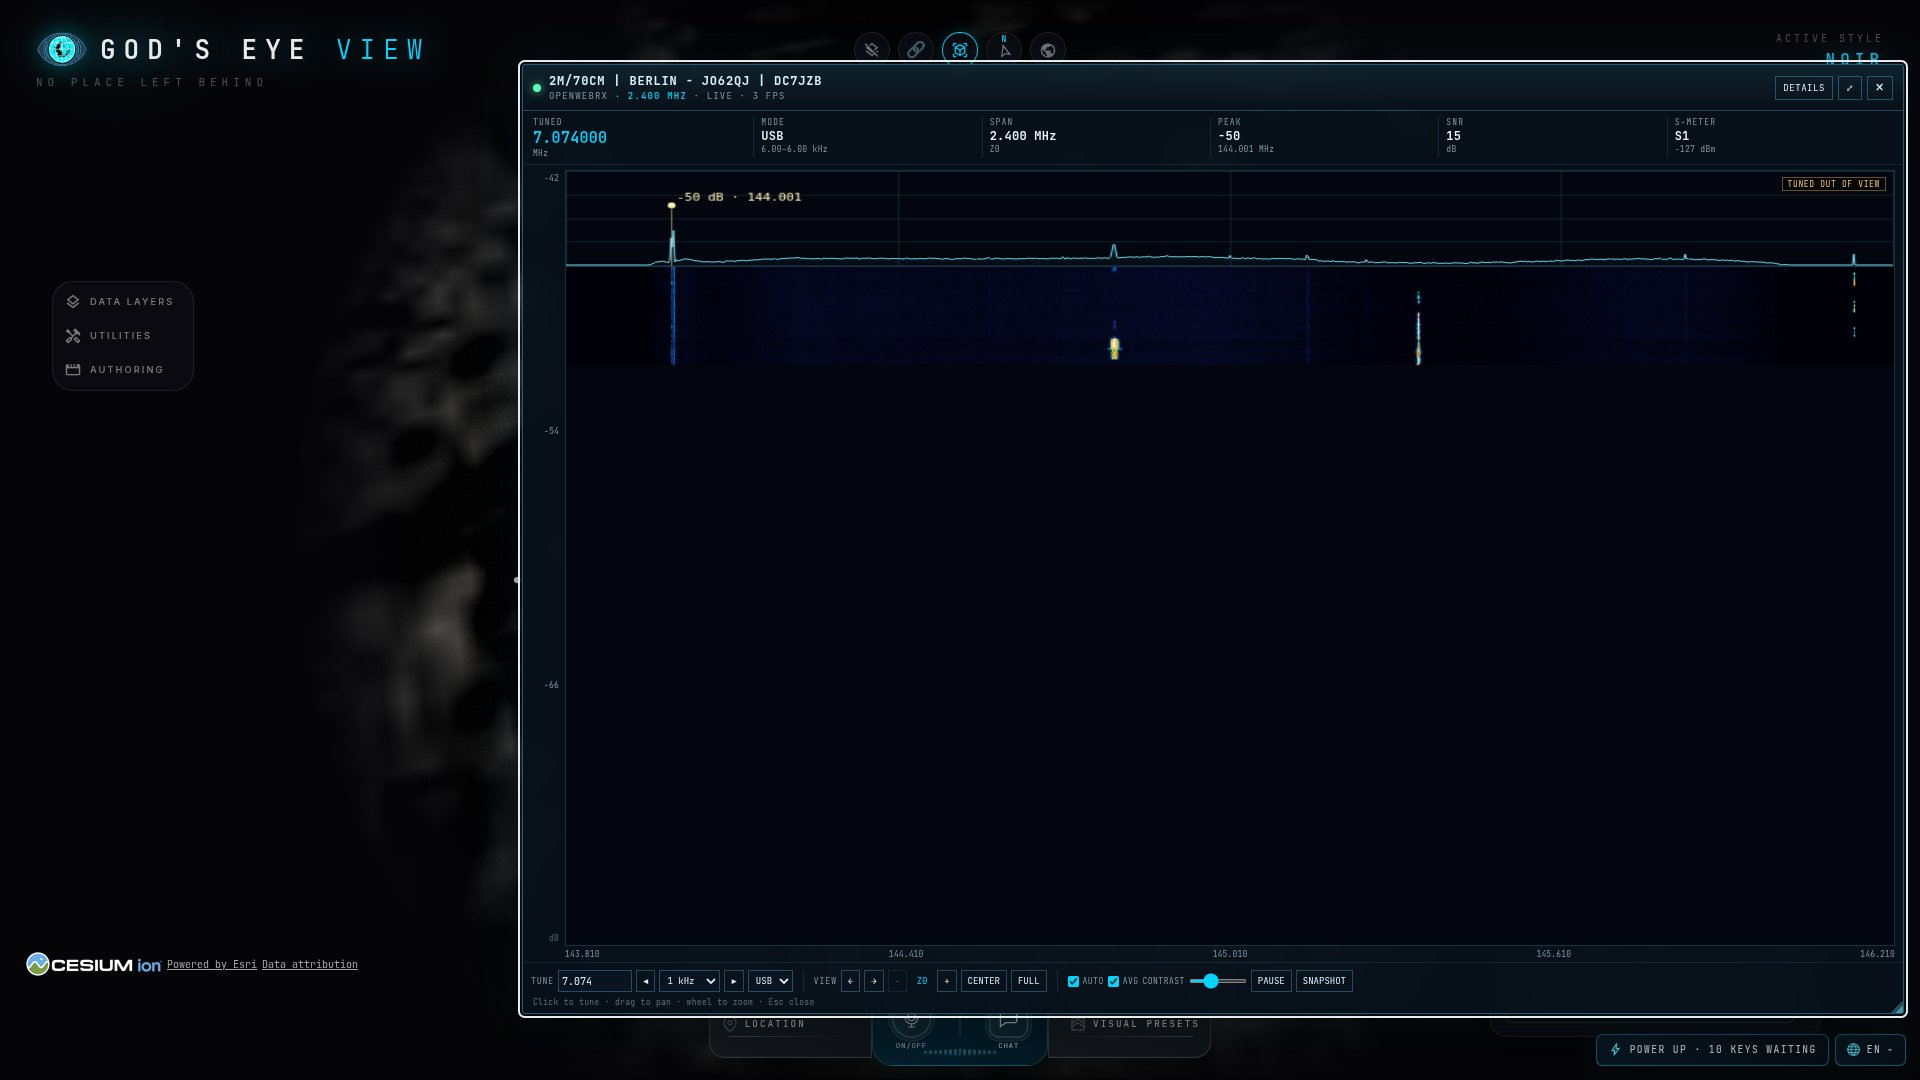
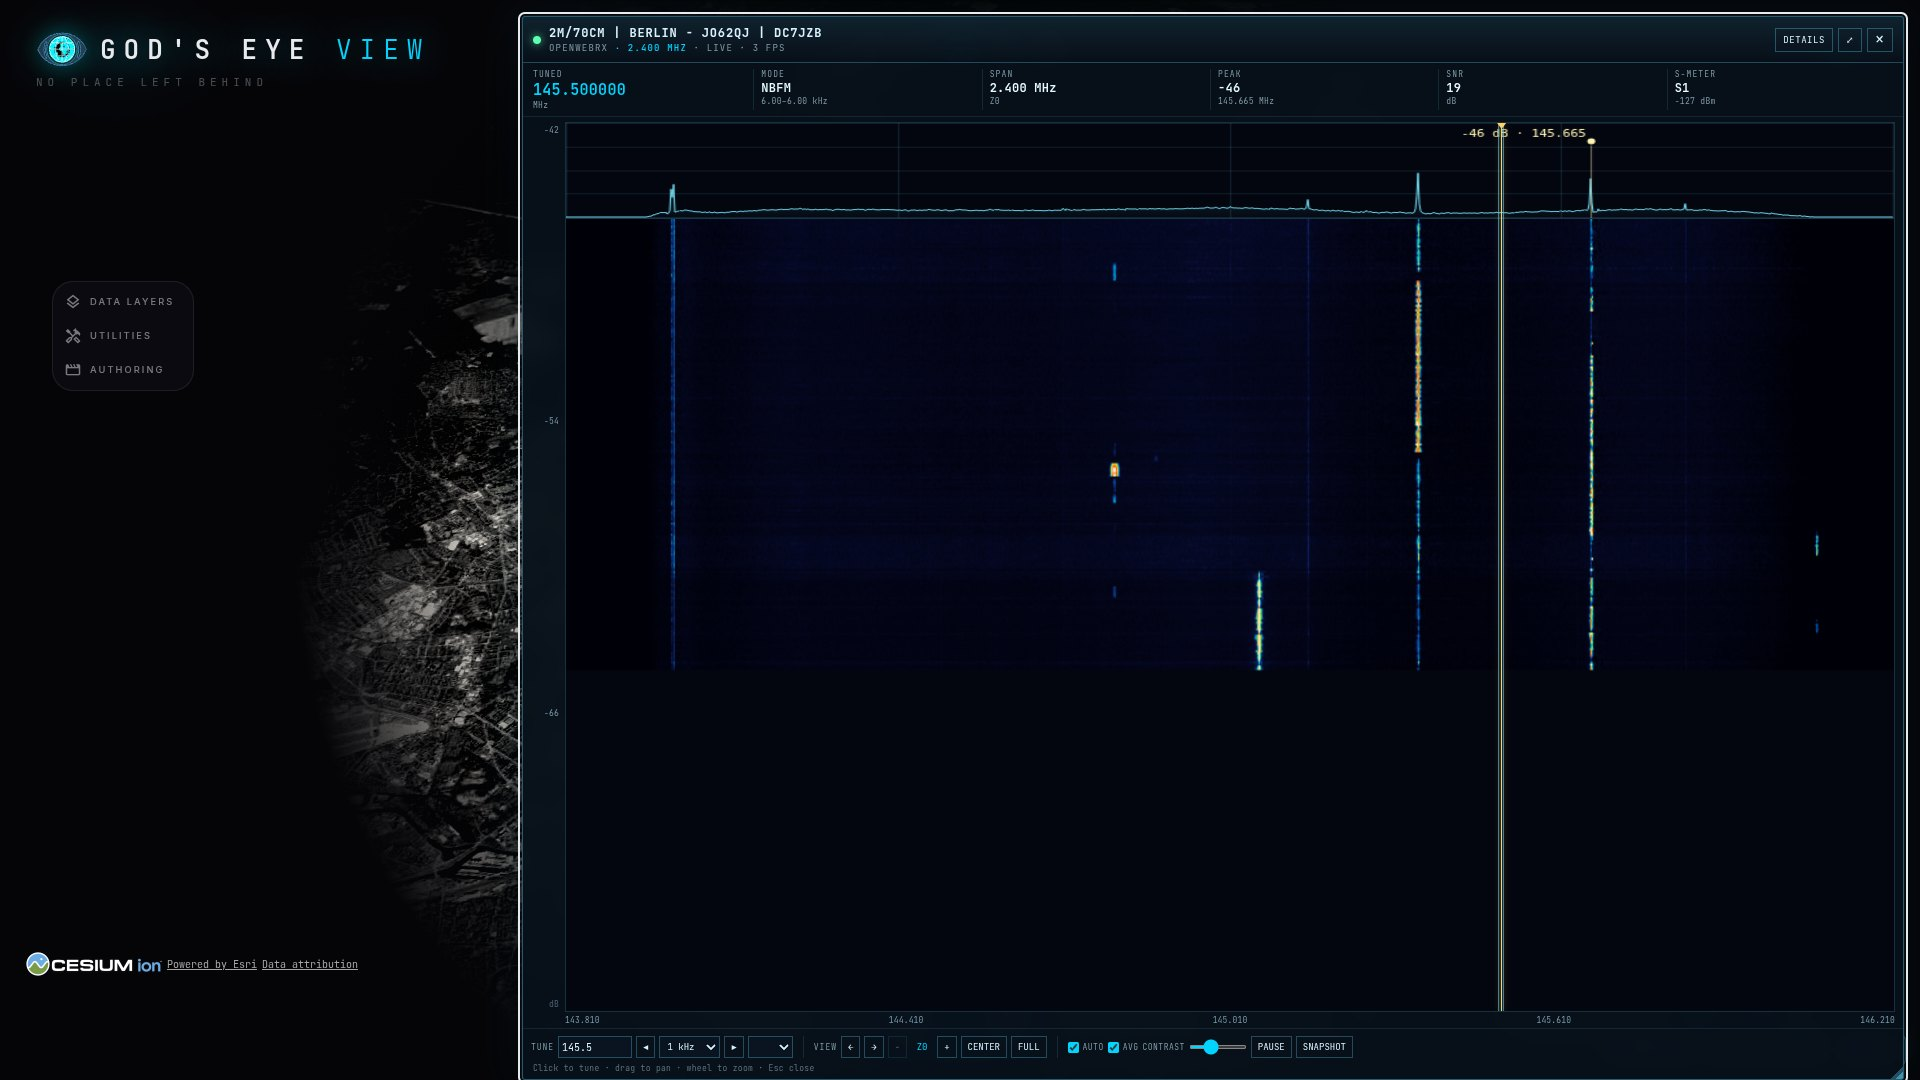
docs: reshoot Public SDR radio + live waterfall screenshots
Radio: Baunatal KiwiSDR at 14.074 MHz USB with full unclipped PUBLIC
SDR card and sharp regional tiles. Waterfall: Berlin OpenWebRX live at
145.500 MHz NBFM with in-band spectrum history.

diff --git a/README.md b/README.md
@@ -59,13 +59,13 @@ Turn on the public radio map and you can listen to live receivers right where th
 
 A pin click is the listen gesture: it selects the receiver in the Radio panel's PUBLIC SDR card, starts audio when the platform can play natively, and opens the floating spectrum/waterfall while the globe stays usable behind it. One stream at a time. Only <code>http://</code> KiwiSDR and OpenWebRX play inside the pane; other platforms get <b>OPEN ↗</b> to the operator's page (never framed).
 
-<img src="docs/images/eoh-sdr-waterfall-berlin.jpg" alt="Floating SDR waterfall over God's Eye View showing a live OpenWebRX stream from Berlin JO62QJ with spectrum, waterfall, SNR and S-meter." width="100%">
+<img src="docs/images/eoh-sdr-waterfall-berlin.jpg" alt="Floating SDR waterfall over God's Eye View showing a live OpenWebRX stream from Berlin JO62QJ tuned to 145.500 MHz NBFM, with spectrum, waterfall history, SNR and S-meter." width="100%">
 
-<sub>Live floating waterfall: Berlin OpenWebRX (<b>2m/70cm · JO62QJ · DC7JZB</b>), spectrum + waterfall, SNR and S-meter — RF right on the globe, no separate tuner window.</sub>
+<sub>Live floating waterfall: Berlin OpenWebRX (<b>2m/70cm · JO62QJ · DC7JZB</b>) at <b>145.500 MHz NBFM</b> — spectrum + waterfall history in-band, SNR and S-meter, RF right on the globe.</sub>
 
-<img src="docs/images/eoh-sdr-radio-berlin.jpg" alt="Berlin area in NOIR with the PUBLIC SDR card open on the Berlin OpenWebRX receiver, showing Listen, Waterfall, Map, and band presets." width="100%">
+<img src="docs/images/eoh-sdr-radio-berlin.jpg" alt="Northern Hesse in NOIR with the PUBLIC SDR card open on the Baunatal KiwiSDR, tuned to 14.074 MHz USB (20 m FT8), showing Listen, Waterfall, Map, and band presets." width="100%">
 
-<sub>Berlin OpenWebRX selected in <b>PUBLIC SDR</b>: search the directory, pick a band preset, then <b>LISTEN</b> / <b>WATERFALL</b> / <b>MAP</b>. Deep links look like <code>?sdr=&lt;id&gt;&amp;f=&lt;MHz&gt;&amp;m=&lt;mode&gt;&amp;wf=1&amp;play=1</code>.</sub>
+<sub>Baunatal KiwiSDR selected in <b>PUBLIC SDR</b> at <b>14.074 MHz USB</b> (20 m FT8): search the directory, pick a band preset, then <b>LISTEN</b> / <b>WATERFALL</b> / <b>MAP</b>. Deep links look like <code>?sdr=&lt;id&gt;&amp;f=&lt;MHz&gt;&amp;m=&lt;mode&gt;&amp;wf=1&amp;play=1</code>.</sub>
 
 <img src="docs/images/eoh-sdr-map-europe.jpg" alt="Wider NOIR view over Denmark and northern Germany with Public SDR receiver pins dotted on the globe." width="100%">
 
